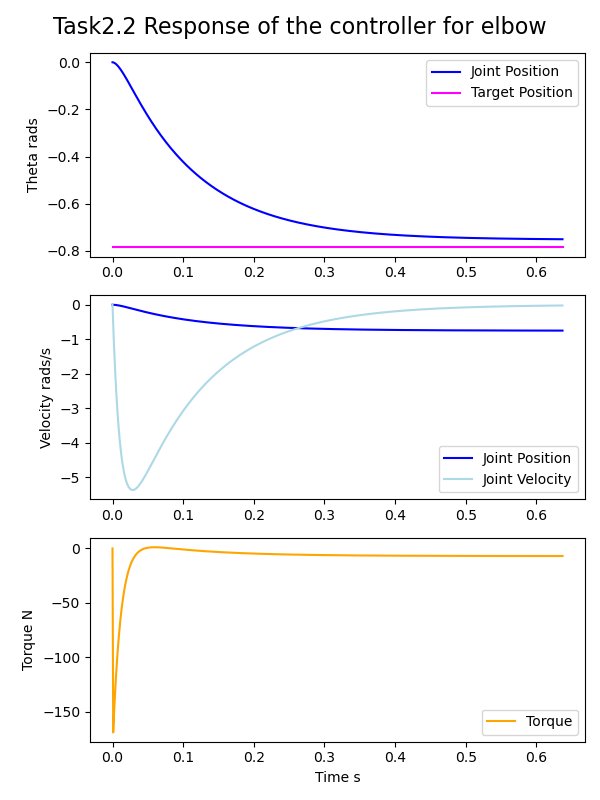
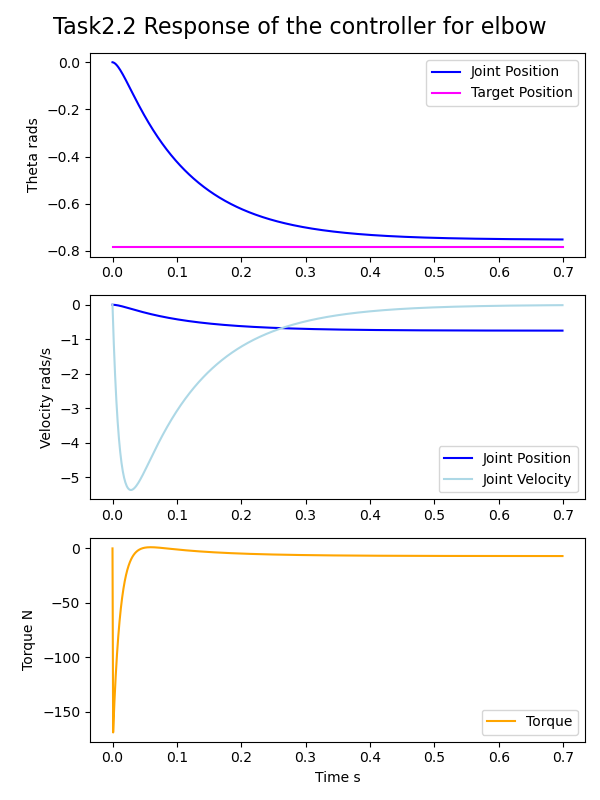
fixed task2, shoulder joint needs more gains

diff --git a/task2/task2_template.py b/task2/task2_template.py
@@ -47,11 +47,11 @@ robotConfigs = {
 sim = Simulation(pybulletConfigs, robotConfigs)
 
 # This is an example target (angular) position for the joint LARM_JOINT2
-task2_jointName = "LARM_JOINT2"
+task2_jointName = "LARM_JOINT1"
 task2_targetPosition = np.deg2rad(-45)  # joint (angular) position in radians
 task2_targetVelocity = 0.0  # joint (angular) velocity in radians per second
 verbose = False
-task2_figure_name = "task2_PD_response_elbow.png"
+task2_figure_name = "task2_PD_response_shoulder_ud.png"
 task2_savefig = True
 ### to here
 
@@ -82,7 +82,7 @@ plt.xlabel("Time s")
 plt.ylabel("Torque N")
 leg = plt.legend(loc='lower right')
 
-plt.suptitle("Task2.2 Response of the controller for elbow", size=16)
+plt.suptitle("Task2.2 Response of the controller for chest", size=16)
 plt.tight_layout()
 plt.subplots_adjust(left=0.15)
 
